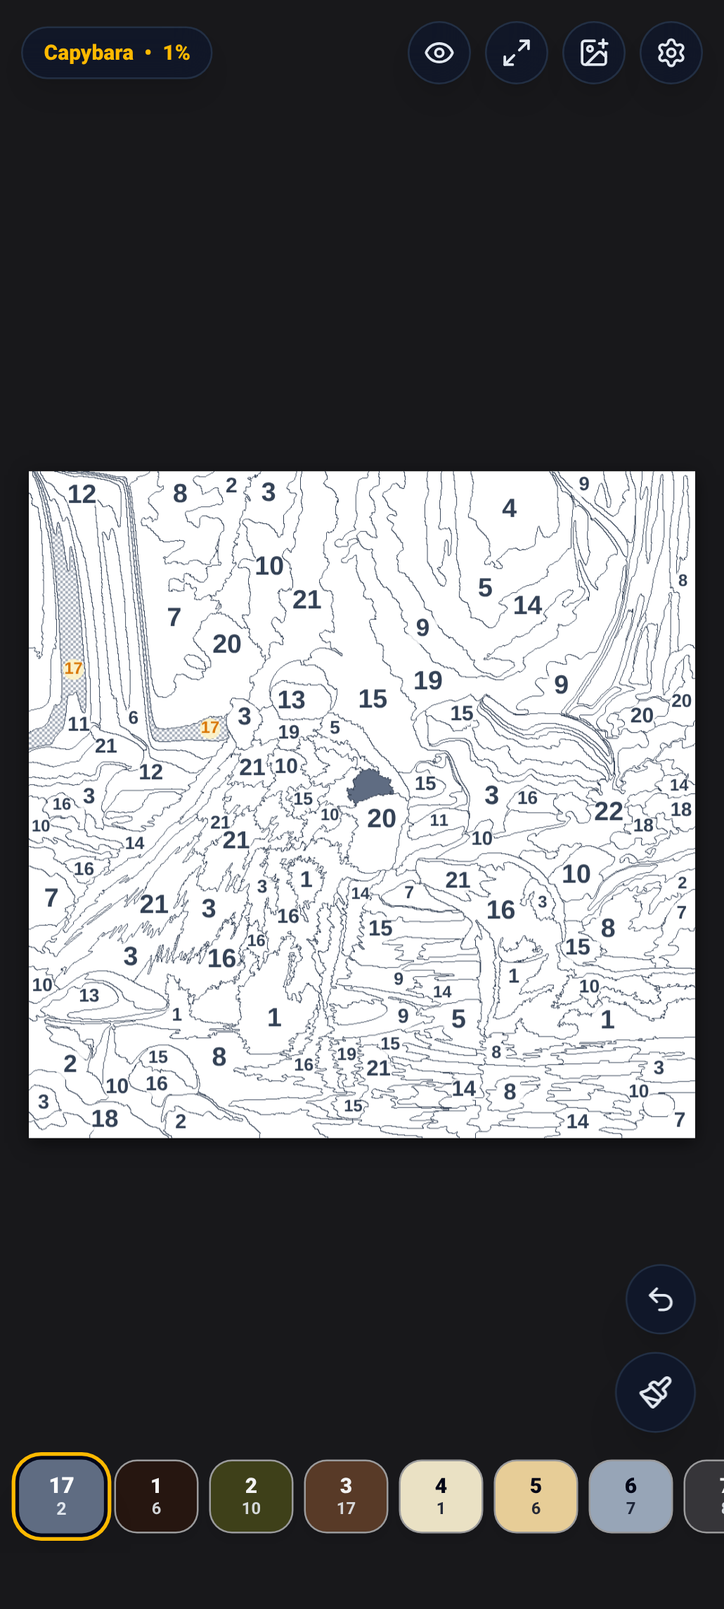
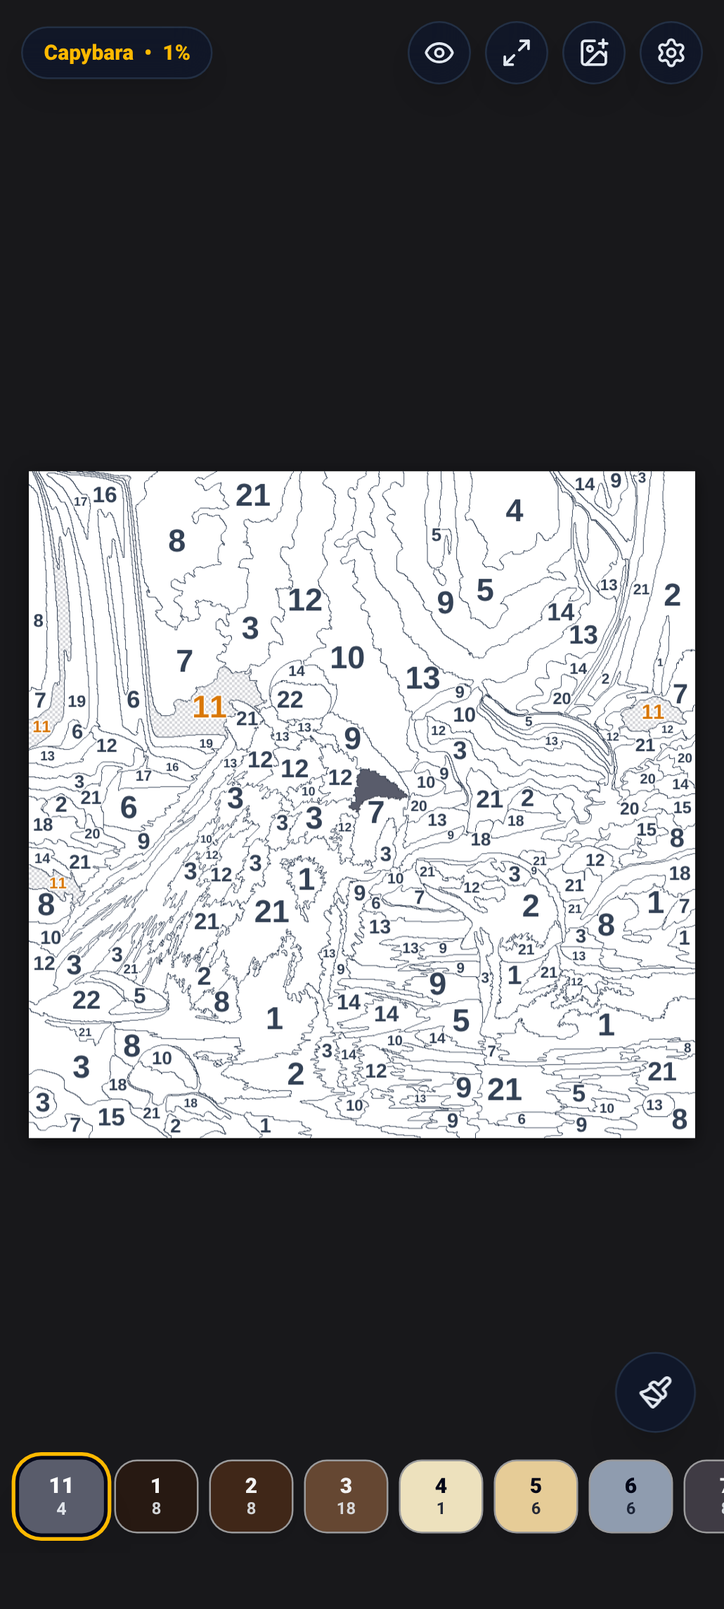
Add min/max label size options, guarantee region fit, and redo circle-free hint color (#457)
* Add min/max label size options, guarantee region fit, and redo circle-free hint color

* Reduce minimum possible label size to 2px for high-resolution displays

---------

diff --git a/web/src/components/PuzzleCanvas.tsx b/web/src/components/PuzzleCanvas.tsx
@@ -29,6 +29,8 @@ interface PuzzleCanvasProps {
   showPreviewLabels: boolean;
   showPreviewBorders: boolean;
   labelScale: number;
+  minLabelSize?: number;
+  maxLabelSize?: number;
   highlightMatching: boolean;
   highlightStyle: RegionHighlightStyle;
   hintColorArgb: number;
@@ -133,6 +135,8 @@ export const PuzzleCanvas: React.FC<PuzzleCanvasProps> = ({
   showPreviewLabels,
   showPreviewBorders,
   labelScale,
+  minLabelSize = 6,
+  maxLabelSize = 18,
   highlightMatching,
   highlightStyle,
   hintColorArgb,
@@ -1095,6 +1099,8 @@ export const PuzzleCanvas: React.FC<PuzzleCanvasProps> = ({
         animateHint,
         effScale,
         labelScale,
+        minLabelSize,
+        maxLabelSize,
         visLeft,
         visTop,
         visRight,
@@ -1130,6 +1136,8 @@ export const PuzzleCanvas: React.FC<PuzzleCanvasProps> = ({
     showPreviewLabels,
     showPreviewBorders,
     labelScale,
+    minLabelSize,
+    maxLabelSize,
     highlightMatching,
     highlightStyle,
     hintColorArgb,
@@ -1730,6 +1738,8 @@ function renderLabels(
   animateHint: boolean,
   effScale: number,
   labelScale: number,
+  minLabelSize: number,
+  maxLabelSize: number,
   visLeft: number,
   visTop: number,
   visRight: number,
@@ -1737,7 +1747,6 @@ function renderLabels(
   isEffectivePreview: boolean
 ) {
   const drawGlowCircle = highlightStyle === 'CENTROID_GLOW';
-  const isNumberOnly = highlightStyle === 'NUMBER_ONLY';
 
   const hr = (hintColorArgb >> 16) & 0xff;
   const hg = (hintColorArgb >> 8) & 0xff;
@@ -1748,8 +1757,21 @@ function renderLabels(
   const ag = activePal ? activePal.g : 191;
   const ab = activePal ? activePal.b : 36;
 
+  // Pre-calculate effective min/max bounds in artwork coordinates
+  const effMinArtwork = (minLabelSize * labelScale) / effScale;
+  const effMaxArtwork = (maxLabelSize * labelScale) / effScale;
+
+  // Pre-calculate text colors (zero per-frame allocations)
+  const normalTextColor = isEffectivePreview ? '#0f172a' : '#334155';
+  const activeTextColor = '#d97706';
+  const hintAlpha = animateHint ? Math.min(1, Math.max(0.4, pulseAlpha * 1.1)) : 1.0;
+  const hintTextColor = `rgba(${hr}, ${hg}, ${hb}, ${hintAlpha})`;
+
   ctx.textAlign = 'center';
   ctx.textBaseline = 'middle';
+  ctx.lineWidth = Math.max(1, 2 / effScale);
+  ctx.strokeStyle = 'rgba(255, 255, 255, 0.9)';
+  ctx.lineJoin = 'round';
 
   for (const region of puzzle.regions) {
     if (filledRegionIds.has(region.id)) continue;
@@ -1773,7 +1795,7 @@ function renderLabels(
     const regH = region.maxY - region.minY + 1;
     const minDim = Math.min(regW, regH);
 
-    // Glowing matching circle (only in puzzle mode)
+    // Glowing matching circle (only in CENTROID_GLOW mode)
     if (!isEffectivePreview && isActive && highlightMatching && drawGlowCircle) {
       const alpha = animateHint ? pulseAlpha * hintIntensity * 0.8 : hintIntensity * 0.7;
       ctx.beginPath();
@@ -1783,8 +1805,8 @@ function renderLabels(
       ctx.fill();
     }
 
-    // Glowing hinted region circle (only in puzzle mode)
-    if (!isEffectivePreview && isHinted && (drawGlowCircle || isNumberOnly)) {
+    // Glowing hinted region circle (only in CENTROID_GLOW mode)
+    if (!isEffectivePreview && isHinted && drawGlowCircle) {
       const alpha = animateHint ? pulseAlpha * hintIntensity * 0.95 : hintIntensity * 0.9;
       ctx.beginPath();
       const radius = Math.max(8 / effScale, minDim * 0.45);
@@ -1795,58 +1817,53 @@ function renderLabels(
 
     if (!drawLabelsNow) continue;
 
-    // Tiny regions skip when unzoomed (unless active or hinted)
-    if (
-      !isActive &&
-      !isHinted &&
-      (minDim * effScale < 14 || (region.maxRadius > 0 && region.maxRadius * effScale < 7))
-    ) {
+    const labelText = displayNumberMap.get(region.colorId) || region.colorId.toString();
+    const charCount = labelText.length;
+    const cornerFactor =
+      charCount === 1
+        ? 0.4841
+        : charCount === 2
+        ? 0.7099
+        : charCount === 3
+        ? 0.9767
+        : Math.sqrt(0.09 * charCount * charCount + 0.1444);
+
+    const safetyMargin = 0.9;
+    const maxFittingArtworkSize =
+      region.maxRadius > 0
+        ? (region.maxRadius * safetyMargin) / cornerFactor
+        : (minDim * 0.4 * safetyMargin) / cornerFactor;
+
+    // If region cannot fit minimum legible label size at current zoom level, skip normal regions
+    if (!isActive && !isHinted && maxFittingArtworkSize < effMinArtwork) {
       continue;
     }
 
-    const baseFontSize = isActive || isHinted ? 18 : 15;
-    const defaultTextSize = (baseFontSize * labelScale) / effScale;
-    const regionMaxTextSize =
-      region.maxRadius > 0 ? region.maxRadius * 1.35 * labelScale : defaultTextSize;
-
-    const targetTextSize = Math.max(
-      (6 * labelScale) / effScale,
-      Math.min(defaultTextSize, regionMaxTextSize, (24 * labelScale) / effScale)
-    );
-
-    // Badge circle background
-    if (!isEffectivePreview) {
-      const bgRadius = targetTextSize * 0.62;
-      ctx.beginPath();
-      ctx.arc(region.centroidX, region.centroidY, bgRadius, 0, Math.PI * 2);
-
-      if (isNumberOnly && (isActive || isHinted)) {
-        const pulseCol = isHinted
-          ? `rgba(${hr}, ${hg}, ${hb}, ${pulseAlpha * 0.9})`
-          : `rgba(${ar}, ${ag}, ${ab}, ${pulseAlpha * 0.85})`;
-        ctx.fillStyle = pulseCol;
-      } else if (isHinted) {
-        ctx.fillStyle = `rgba(${hr}, ${hg}, ${hb}, 0.35)`;
-      } else if (isActive) {
-        ctx.fillStyle = 'rgba(254, 243, 199, 0.92)';
-      } else {
-        ctx.fillStyle = 'rgba(255, 255, 255, 0.82)';
-      }
-      ctx.fill();
+    // Determine target font size in artwork coordinates guaranteeing fit within the region
+    let targetTextSize: number;
+    if (isActive || isHinted) {
+      const fitSize = Math.min(effMaxArtwork, maxFittingArtworkSize);
+      targetTextSize = Math.max(Math.min(effMinArtwork, 2 / effScale), fitSize);
+    } else {
+      targetTextSize = Math.min(effMaxArtwork, maxFittingArtworkSize);
     }
 
-    // Label number text
-    ctx.font = `600 ${targetTextSize}px "Inter", -apple-system, sans-serif`;
-    const hintTextCol = `rgb(${Math.floor(hr * 0.6)}, ${Math.floor(hg * 0.6)}, ${Math.floor(hb * 0.6)})`;
-    ctx.fillStyle = isHinted
-      ? hintTextCol
-      : isActive
-      ? '#d97706'
-      : isEffectivePreview
-      ? '#0f172a'
-      : '#334155';
+    // Label font
+    ctx.font = isHinted
+      ? `700 ${targetTextSize}px "Inter", -apple-system, sans-serif`
+      : `600 ${targetTextSize}px "Inter", -apple-system, sans-serif`;
 
-    const labelText = displayNumberMap.get(region.colorId) || region.colorId.toString();
+    // Redo label hint effect: changes text colour, does NOT draw a circle around it
+    const isMatch = isActive && highlightMatching;
+    ctx.fillStyle = isHinted
+      ? hintTextColor
+      : isMatch
+      ? activeTextColor
+      : normalTextColor;
+
+    // Stroke outline scaled proportionally for tiny fonts so glyphs remain crisp on high-DPI screens
+    ctx.lineWidth = Math.max(0.5, Math.min(1.5 / effScale, targetTextSize * 0.22));
+    ctx.strokeText(labelText, region.centroidX, region.centroidY);
     ctx.fillText(labelText, region.centroidX, region.centroidY);
   }
 }

diff --git a/web/src/components/SettingsModal.tsx b/web/src/components/SettingsModal.tsx
@@ -669,23 +669,86 @@ export const SettingsModal: React.FC<SettingsModalProps> = ({
                 </div>
               </div>
 
-              {/* Label Scale Slider */}
-              <div className="space-y-1.5 p-3 rounded-xl bg-slate-950/40 border border-slate-800/80">
+              {/* Label Sizing & Constraints */}
+              <div className="space-y-3 p-3 rounded-xl bg-slate-950/40 border border-slate-800/80">
                 <div className="flex justify-between items-center text-xs sm:text-sm font-semibold">
-                  <span className="text-slate-200">Label Text Size</span>
-                  <span className="text-amber-400 font-mono font-bold">
-                    {Math.round(settings.labelScale * 100)}%
-                  </span>
+                  <span className="text-slate-200">Label Sizing & Bounds</span>
                 </div>
-                <input
-                  type="range"
-                  min="0.5"
-                  max="2.0"
-                  step="0.05"
-                  value={settings.labelScale}
-                  onChange={(e) => updateSetting('labelScale', parseFloat(e.target.value))}
-                  className="w-full accent-amber-400 cursor-pointer h-1.5 bg-slate-800 rounded-lg"
-                />
+
+                {/* Min Size */}
+                <div className="space-y-1">
+                  <div className="flex justify-between items-center text-xs">
+                    <span className="text-slate-300">Minimum Label Size</span>
+                    <span className="text-amber-400 font-mono font-bold">
+                      {settings.minLabelSize ?? 6} px
+                    </span>
+                  </div>
+                  <input
+                    type="range"
+                    min="2"
+                    max="14"
+                    step="1"
+                    value={settings.minLabelSize ?? 6}
+                    onChange={(e) => {
+                      const val = parseInt(e.target.value, 10);
+                      updateSetting('minLabelSize', val);
+                      if (val > (settings.maxLabelSize ?? 18)) {
+                        updateSetting('maxLabelSize', val);
+                      }
+                    }}
+                    className="w-full accent-amber-400 cursor-pointer h-1.5 bg-slate-800 rounded-lg"
+                  />
+                  <div className="text-[10px] text-slate-400">
+                    Lower values reveal tiny labels on high-resolution displays before zooming
+                  </div>
+                </div>
+
+                {/* Max Size */}
+                <div className="space-y-1">
+                  <div className="flex justify-between items-center text-xs">
+                    <span className="text-slate-300">Maximum Label Size</span>
+                    <span className="text-amber-400 font-mono font-bold">
+                      {settings.maxLabelSize ?? 18} px
+                    </span>
+                  </div>
+                  <input
+                    type="range"
+                    min="10"
+                    max="36"
+                    step="1"
+                    value={settings.maxLabelSize ?? 18}
+                    onChange={(e) => {
+                      const val = parseInt(e.target.value, 10);
+                      updateSetting('maxLabelSize', val);
+                      if (val < (settings.minLabelSize ?? 6)) {
+                        updateSetting('minLabelSize', val);
+                      }
+                    }}
+                    className="w-full accent-amber-400 cursor-pointer h-1.5 bg-slate-800 rounded-lg"
+                  />
+                  <div className="text-[10px] text-slate-400">
+                    Prevents numbers in large open regions from becoming oversized
+                  </div>
+                </div>
+
+                {/* Label Scale Slider */}
+                <div className="space-y-1">
+                  <div className="flex justify-between items-center text-xs">
+                    <span className="text-slate-300">Overall Scale</span>
+                    <span className="text-amber-400 font-mono font-bold">
+                      {Math.round(settings.labelScale * 100)}%
+                    </span>
+                  </div>
+                  <input
+                    type="range"
+                    min="0.5"
+                    max="2.0"
+                    step="0.05"
+                    value={settings.labelScale}
+                    onChange={(e) => updateSetting('labelScale', parseFloat(e.target.value))}
+                    className="w-full accent-amber-400 cursor-pointer h-1.5 bg-slate-800 rounded-lg"
+                  />
+                </div>
               </div>
 
               {/* Replay Speed & Auto-Replay on Load */}
@@ -820,7 +883,7 @@ export const SettingsModal: React.FC<SettingsModalProps> = ({
                   {(
                     [
                       { key: 'CENTROID_GLOW', label: 'Centroid Glow', desc: 'Pulsing circle at center' },
-                      { key: 'NUMBER_ONLY', label: 'Number Badge', desc: 'Glowing pill behind number' },
+                      { key: 'NUMBER_ONLY', label: 'Number Color', desc: 'Highlights matching label text colour' },
                       { key: 'FULL_REGION', label: 'Entire Region Fill', desc: 'Fills matching pixels' },
                       { key: 'BOUNDARY_ONLY', label: 'Boundary Outline', desc: 'Glowing perimeter outline' },
                     ] as const

diff --git a/web/src/App.tsx b/web/src/App.tsx
@@ -1652,6 +1652,8 @@ export const App: React.FC = () => {
         showPreviewLabels={settings.showPreviewLabels}
         showPreviewBorders={settings.showPreviewBorders}
         labelScale={settings.labelScale}
+        minLabelSize={settings.minLabelSize}
+        maxLabelSize={settings.maxLabelSize}
         highlightMatching={isReplaying ? false : settings.highlightMatching}
         highlightStyle={settings.highlightStyle}
         hintColorArgb={settings.hintColorArgb}

diff --git a/web/src/types/index.ts b/web/src/types/index.ts
@@ -81,6 +81,8 @@ export interface UserSettings {
   showNextRegionHint: boolean;
   hintIntensity: number;
   labelScale: number;
+  minLabelSize: number;
+  maxLabelSize: number;
   showZoomButtons: boolean;
   showResetViewButton: boolean;
   paletteSort: PaletteSortOrder;

diff --git a/web/src/services/StorageService.ts b/web/src/services/StorageService.ts
@@ -31,6 +31,8 @@ export const DEFAULT_SETTINGS: UserSettings = {
   showNextRegionHint: true,
   hintIntensity: 0.65,
   labelScale: 1.0,
+  minLabelSize: 6,
+  maxLabelSize: 18,
   showZoomButtons: false,
   showResetViewButton: false,
   paletteSort: 'NUMBER',

diff --git a/WEB.md b/WEB.md
@@ -110,7 +110,7 @@ The UI uses a fixed, layered viewport stack where pointer events pass through em
 | [**`GameTopBar`**](file:///home/antigravity/shthed/capy/web/src/components/GameTopBar.tsx) | Displays puzzle title, overall completion percentage, quick actions. | Tap title to open Saves tab; toggle preview mode; enter/exit fullscreen; import image; open settings. |
 | [**`PaletteDock`**](file:///home/antigravity/shthed/capy/web/src/components/PaletteDock.tsx) | Horizontal scrolling list of numbered color swatches with completion badges. | Tap swatch to select active color; tap active swatch again to trigger hint; tap custom color button to open picker. Guarantees persistent active color selection even when 0 matching regions remain on-screen. Supports dynamic sorting (Number, Remaining, Hue, Lightness) and viewport culling. |
 | [**`FloatingActions`**](file:///home/antigravity/shthed/capy/web/src/components/FloatingActions.tsx) | Secondary floating action buttons positioned above the palette dock. | Undo last completed region (`Ctrl+Z` / `Cmd+Z`, disabled by default for standard puzzles, enabled automatically for free colour puzzles or via Settings toggle); long-press Undo (>=450ms) to open Replay timeline scrubber; conditional Redo button positioned above Undo (`Ctrl+Y` / `Ctrl+Shift+Z`) to re-apply undone regions (hidden until an action is undone); trigger Replay when completed; toggle continuous Paint Mode; zoom in/out; reset view to fit screen. |
-| [**`SettingsModal`**](file:///home/antigravity/shthed/capy/web/src/components/SettingsModal.tsx) | Full modal sheet with 4 tabbed sections and automatic active tab persistence. | Automatically restores the last active tab index from `localStorage` (`capy_last_settings_tab`).<br>**Settings**: Preferences, difficulty, auto-advance, replay speed (`0.5x`–`10x`), minimal `Replay on Load` toggle, pan momentum toggle, canvas background (preset circular swatches + `<Pipette>` custom hex/color picker), dock elevation, label scale, and Android APK direct download link.<br>**Hints**: Hint styles, hint highlight colour (circular swatches + `<Pipette>`), hint intensity, animated hint pulse.<br>**Create**: Algorithm selection, color counts, min region area, line handling, sample artwork picker, device photo upload.<br>**Saves**: Unified sticky top control region combining all options, view switches, selected save actions, and library utilities (Sort dropdown, minimal `Replay on Load` toggle, Detail/Thumbnails view switcher, named save action buttons [Pin/Unpin, Load/Resume, Replay, Rename, Export `.capy`, Delete], and library buttons [Import, Export All, Delete All Saves]) into a single region always visible at the top above the scrolling gallery; single-tap save selection; double-tap/double-click save loading; pin save capability to lock saves at top; view modes between **Detail** (single vertical list with 64–72px thumbnails, percentage, file size, and progress bar) and **Thumbnails** (responsive 2–3 column grid with 4:3 rectangular preview artwork, floating pin badge, completion badge, and progress line). |
+| [**`SettingsModal`**](file:///home/antigravity/shthed/capy/web/src/components/SettingsModal.tsx) | Full modal sheet with 4 tabbed sections and automatic active tab persistence. | Automatically restores the last active tab index from `localStorage` (`capy_last_settings_tab`).<br>**Settings**: Preferences, difficulty, auto-advance, replay speed (`0.5x`–`10x`), minimal `Replay on Load` toggle, pan momentum toggle, canvas background (preset circular swatches + `<Pipette>` custom hex/color picker), dock elevation, label sizing controls (Minimum Label Size, Maximum Label Size, and Overall Scale), and Android APK direct download link.<br>**Hints**: Highlight styles (`CENTROID_GLOW`, `NUMBER_ONLY` [changes label text colour without circles], `FULL_REGION`, `BOUNDARY_ONLY`), hint highlight colour (circular swatches + `<Pipette>`), hint intensity, animated hint pulse.<br>**Create**: Algorithm selection, color counts, min region area, line handling, sample artwork picker, device photo upload.<br>**Saves**: Unified sticky top control region combining all options, view switches, selected save actions, and library utilities (Sort dropdown, minimal `Replay on Load` toggle, Detail/Thumbnails view switcher, named save action buttons [Pin/Unpin, Load/Resume, Replay, Rename, Export `.capy`, Delete], and library buttons [Import, Export All, Delete All Saves]) into a single region always visible at the top above the scrolling gallery; single-tap save selection; double-tap/double-click save loading; pin save capability to lock saves at top; view modes between **Detail** (single vertical list with 64–72px thumbnails, percentage, file size, and progress bar) and **Thumbnails** (responsive 2–3 column grid with 4:3 rectangular preview artwork, floating pin badge, completion badge, and progress line). |
 | [**`ReplayControls`**](file:///home/antigravity/shthed/capy/web/src/components/ReplayControls.tsx) | Non-blocking bottom HUD shown during chronological puzzle replays and upon 100% completion. | Play/Pause/Replay toggle; interactive timeline range scrubber; "Resume Play From Here" button to rewind active gameplay to any scrubbed step; speed selector (`0.5x`, `1x`, `2x`, `5x`, `10x`); Restart and Skip-to-End controls; post-completion `Save PNG` and `Next` puzzle quick actions. |
 | [**`ColorPickerPopover`**](file:///home/antigravity/shthed/capy/web/src/components/ColorPickerPopover.tsx) | Palette customization panel for Free Colour / Coloring Page mode. | Select from 5 preset palettes (Vibrant, Mushroom, Pastels, Earthy, Neon); pick custom HSL/Hex swatches; update palette colors in real time. |
 | [**`LoadingOverlay`**](file:///home/antigravity/shthed/capy/web/src/components/LoadingOverlay.tsx) | Non-blocking bottom-anchored HUD card keeping the background canvas visible during puzzle creation. | Supports two generation progress modes with live toggle control directly on the HUD:<br>1. **Simple Progress (Fast Mode, Default)**: Minimalist, ultra-low-overhead progress HUD showing an amber-to-yellow gradient progress bar and percentage. In Simple mode, the high-frequency canvas animation loop is completely disabled on the main thread, and worker IPC progress events are throttled with payload construction skipped, dedicating maximum CPU and memory bandwidth to the puzzle generation engine for the fastest possible load times.<br>2. **Detailed Progress**: Displays strictly monotonic progress (`0%` to `100%`), `Step X/6` badge, live sub-status, real-time pipeline parameters (detected style, chosen strategy, target regions), live K-Means clustered palette swatches, and an expandable **Generation Details** drawer listing all 6 stages alongside auto-detected style, chosen strategy rationale, color count, region targets, working resolution, and estimated save file size (`KB`). |
@@ -200,13 +200,14 @@ When regions are filled or unfilled (via gameplay, Undo, or Replay scrubbing), `
 `PuzzleCanvas` dynamically renders visual cues for active and hinted regions without redrawing base layers:
 - **Active Colour Highlighting**: When `highlightStyle` is set to `FULL_REGION` (default) or `BOUNDARY_ONLY`, unfilled regions matching `activeColorId` are filled directly with the **active palette colour** (extracted from `palette[activeColorId].rgb`). This creates an immediate visual connection between the selected palette swatch and the target puzzle shapes.
 - **Hint Highlighting**: When a hint is triggered, the target region is highlighted using `settings.hintColorArgb` (default gold `#FBBF24`), rendering a distinct checkerboard, pulse, or border pattern to avoid visual confusion with the active colour.
-- **Matching Centroid Glow & Badges**: Region centroid rings and number badges for matching regions dynamically use the active palette color for their glowing background accents.
+- **Label Hint & Highlight Effect (`NUMBER_ONLY`)**: Rather than drawing distracting circles or pills around numbers, the label hint effect changes the label text colour directly to the vibrant hint colour (pulsing when `animateHint` is enabled) or active colour `#D97706` with a crisp white stroke halo for contrast. Centroid circles are reserved strictly for `CENTROID_GLOW` mode.
 
-### Centroid Label Placement & Culling
-Labels are drawn at each region's **Pole of Inaccessibility** (deepest interior point computed via BFS in the engine), avoiding thin concave edges:
-- **Spatial Culling**: Labels outside the viewport bounding box are discarded before font measurement.
-- **Scale Thresholding**: Labels only render when `region.maxRadius * effScale >= 6px`. Tiny regions suppress labels until the user zooms in.
-- **Dynamic Contrast**: Text color automatically toggles between `#FFFFFF` (with dark drop shadow) and `#000000` (with light drop shadow) based on the region's perceived luminance (`isLight`).
+### Centroid Label Placement & Bounds Guarantee
+Labels are drawn at each region's **Pole of Inaccessibility** (deepest interior point computed via BFS distance transform in the engine), avoiding thin concave edges:
+- **Spatial Culling**: Labels outside the visible viewport bounding box are discarded before font measurement.
+- **Inscribed Circle Geometry Fitting**: Label font sizes are calculated from the region's inscribed circle radius (`maxRadius`) divided by a character-count corner factor `sqrt((0.3 * charCount)^2 + 0.1444)` with a 10% safety cushion. This guarantees that 1-digit, 2-digit, and 3-digit label bounding boxes always fit inside the region.
+- **Minimum and Maximum Size Constraints**: Labels are constrained between `minLabelSize` (range 2–14px, default 6px) and `maxLabelSize` (range 10–36px, default 18px). Lowering `minLabelSize` allows very tiny, crisp numbers to remain visible on high-resolution displays before zooming in, while `maxLabelSize` prevents numbers in large open regions from becoming oversized.
+- **Clean Stroke Contrast**: Label text is rendered with a proportional semi-transparent white stroke outline (`strokeText`) scaled down for tiny fonts, providing high contrast against dark artwork lines without drawing background circle badges.
 
 ### Viewport Pan & Zoom Clamping (`clampCanvasOffset`)
 [`clampCanvasOffset`](file:///home/antigravity/shthed/capy/web/src/components/PuzzleCanvas.tsx) keeps the artwork bounded while providing full viewport navigation:
@@ -342,7 +343,7 @@ Capy uses a hybrid storage model to manage performance and browser storage quota
 | `canvasBgArgb` | `number` (32-bit ARGB) | `0xff18181b` (`#18181B`) | Custom background color when `canvasBgColor` is set to `'CUSTOM'` (configured via `<Pipette>` picker). |
 | `saveSortOrder` | `'LAST_ACTIVE' \| 'NAME' \| 'PROGRESS'` | `'LAST_ACTIVE'` | Sorting order for saved game snapshots in the Saves tab. |
 | `showSavePreviews` | `boolean` | `true` | Displays 240×240 thumbnails in the Saves gallery tab. |
-| `highlightStyle` | `'NONE' \| 'CENTROID_ONLY' \| 'BOUNDARY_ONLY' \| 'FULL_REGION'` | `'FULL_REGION'` | Visual overlay style for matching active regions. `FULL_REGION` and `BOUNDARY_ONLY` fill regions in the **active palette color**. |
+| `highlightStyle` | `'CENTROID_GLOW' \| 'NUMBER_ONLY' \| 'FULL_REGION' \| 'BOUNDARY_ONLY'` | `'FULL_REGION'` | Visual overlay style for matching active regions. `FULL_REGION` and `BOUNDARY_ONLY` fill regions in the active palette colour; `NUMBER_ONLY` highlights label text colour directly without drawing circles; `CENTROID_GLOW` draws a pulsing circle at the region centroid. |
 | `hintFillStyle` | `'SOLID' \| 'CHECKER' \| 'STRIPED'` | `'CHECKER'` | Texture pattern applied to the active hint target region. |
 | `hintColorArgb` | `number` (32-bit ARGB) | `0xfffbbf24` (`#FBBF24`) | Custom highlight color for hint targets (configured via `<Pipette>` picker). |
 | `showRegionLabels` | `boolean` | `true` | Displays number labels at interior poles of inaccessibility. |
@@ -352,7 +353,9 @@ Capy uses a hybrid storage model to manage performance and browser storage quota
 | `animateHint` | `boolean` | `true` | Enables pulsing / breathing animation for hinted region. |
 | `showNextRegionHint` | `boolean` | `true` | Highlights the next closest matching region when requesting hints. |
 | `hintIntensity` | `number` (0.0 – 1.0) | `0.65` | Opacity of hint overlays and glow animations. |
-| `labelScale` | `number` (0.5 – 2.0) | `1.0` | Global multiplier for number label font size. |
+| `minLabelSize` | `number` (2 – 14 px) | `6` | Minimum label font size on screen; regions where labels cannot fit at this size are suppressed until zoomed in. Lower values reveal tiny labels on high-DPI displays. Configured in Settings under Label Sizing & Bounds. |
+| `maxLabelSize` | `number` (10 – 36 px) | `18` | Maximum label font size on screen; prevents numbers in large open regions from becoming oversized. Configured in Settings under Label Sizing & Bounds. |
+| `labelScale` | `number` (0.5 – 2.0) | `1.0` | Global scaling multiplier for number label font size. Configured in Settings under Label Sizing & Bounds. |
 | `showZoomButtons` | `boolean` | `false` | Displays onscreen `+` / `-` floating zoom buttons. |
 | `showResetViewButton` | `boolean` | `false` | Displays onscreen fit-to-screen view reset button. |
 | `paletteSort` | `'NUMBER' \| 'REMAINING' \| 'HUE' \| 'LIGHTNESS'` | `'NUMBER'` | Dynamic sorting order for palette swatches in `PaletteDock`. |
